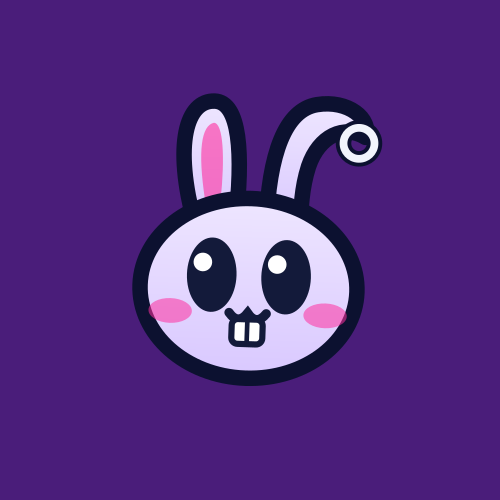
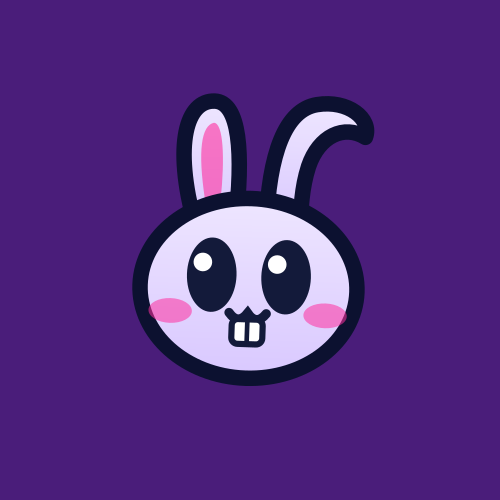
Slime drip border, solid gel ink, drop the hoop earrings

Changed region(s): [[0.66, 0.24, 0.78, 0.33]]

diff --git a/src/pages/Index.tsx b/src/pages/Index.tsx
@@ -216,9 +216,9 @@ function ShootingStar({ className, style }: StickerProps) {
 /*
  * A chaotic gel-pen border, sketchbook style: a lazy vine weaving down the
  * strip with fat spiral curls sprouting off it, hatched hearts and stars
- * tossed in at random tilts, dash bursts, squiggles, and dots. Pale glints
- * sit on the ink so it reads as purple sparkle gel. The tile meets itself
- * end to end, so the strips repeat seamlessly.
+ * tossed in at random tilts, dash bursts, squiggles, and dots, all in
+ * full-strength gel-pen purple. The tile meets itself end to end, so the
+ * strips repeat seamlessly.
  */
 function DoodleBorderTile() {
   return (
@@ -256,13 +256,6 @@ function DoodleBorderTile() {
       <circle cx="56" cy="60" r="1.5" fill="currentColor" stroke="none" />
       <circle cx="10" cy="160" r="1.5" fill="currentColor" stroke="none" />
       <circle cx="12" cy="244" r="1.5" fill="currentColor" stroke="none" />
-      {/* gel glitter */}
-      <g fill="#f3e8ff" stroke="none">
-        <path d="M20 50.8 L22.2 54 L20 57.2 L17.8 54 Z" />
-        <path d="M44 124.8 L46.2 128 L44 131.2 L41.8 128 Z" />
-        <path d="M47 166.8 L49.2 170 L47 173.2 L44.8 170 Z" />
-        <circle cx="24" cy="226" r="0.9" fill="#ffffff" />
-      </g>
     </g>
   );
 }
@@ -415,17 +408,6 @@ function DoodleCrewTile() {
       <g transform="rotate(14 32 509)">
         <path d="M32 504 L33.5 508 L37.5 508 L34.5 510.5 L35.5 514.5 L32 512 L28.5 514.5 L29.5 510.5 L26.5 508 L30.5 508 Z" strokeWidth="1.8" />
       </g>
-      {/* gel glitter glints */}
-      <g fill="#f3e8ff" stroke="none">
-        <path d="M12 22.8 L14.2 26 L12 29.2 L9.8 26 Z" />
-        <path d="M50 95 L52.2 98.2 L50 101.4 L47.8 98.2 Z" />
-        <path d="M32 250 L34.2 253.2 L32 256.4 L29.8 253.2 Z" />
-        <path d="M14 310 L16.2 313.2 L14 316.4 L11.8 313.2 Z" />
-        <path d="M32 418 L34.2 421.2 L32 424.4 L29.8 421.2 Z" />
-        <circle cx="32" cy="8" r="0.9" fill="#ffffff" />
-        <circle cx="50" cy="180" r="0.9" fill="#ffffff" />
-        <circle cx="32" cy="496" r="0.9" fill="#ffffff" />
-      </g>
     </g>
   );
 }
@@ -509,6 +491,33 @@ function ZebraStrip({ className, style }: { className?: string; style?: React.CS
       <path d={teeth.join(' ')} fill="#131a3a" />
       <rect width="1200" height="5" fill="#0c1130" />
       <rect y="55" width="1200" height="5" fill="#0c1130" />
+    </svg>
+  );
+}
+
+/*
+ * Neon slime pouring over a section's top edge: punk drip border in the
+ * brand mint, glossy clip-art style with the navy outline and a few
+ * detached drops mid-fall.
+ */
+function SlimeDrip({ className }: { className?: string }) {
+  const { id, stops } = useGloss('#14ff89');
+  return (
+    <svg viewBox="0 0 1440 120" preserveAspectRatio="none" className={className} aria-hidden="true">
+      <Gloss id={id} stops={stops} />
+      <path
+        d="M0 26 C30 26 40 60 60 60 C80 60 78 20 100 20 C130 20 130 44 150 44 C170 44 168 84 190 84 C212 84 205 22 230 22 C260 22 258 50 280 50 C302 50 300 18 330 18 C360 18 355 70 380 70 C405 70 400 24 430 24 C460 24 458 46 480 46 C502 46 500 90 525 90 C550 90 545 20 575 20 C605 20 600 55 625 55 C650 55 648 26 675 26 C705 26 700 74 725 74 C750 74 748 22 775 22 C805 22 800 48 825 48 C850 48 848 16 880 16 C910 16 905 62 930 62 C955 62 950 24 980 24 C1010 24 1008 52 1030 52 C1052 52 1050 88 1075 88 C1100 88 1095 20 1125 20 C1155 20 1150 44 1175 44 C1200 44 1198 70 1225 70 C1252 70 1245 18 1275 18 C1305 18 1300 50 1325 50 C1350 50 1348 28 1375 28 C1405 28 1402 58 1420 58 C1435 58 1438 30 1440 26 L1440 0 L0 0 Z"
+        fill={`url(#${id})`}
+        stroke="#0c1130"
+        strokeWidth="6"
+        strokeLinejoin="round"
+      />
+      <circle cx="192" cy="102" r="5" fill={`url(#${id})`} stroke="#0c1130" strokeWidth="5" />
+      <circle cx="527" cy="106" r="7" fill={`url(#${id})`} stroke="#0c1130" strokeWidth="5" />
+      <circle cx="1077" cy="104" r="6" fill={`url(#${id})`} stroke="#0c1130" strokeWidth="5" />
+      <ellipse cx="130" cy="9" rx="34" ry="4" fill="#ffffff" opacity="0.45" />
+      <ellipse cx="700" cy="9" rx="40" ry="4" fill="#ffffff" opacity="0.45" />
+      <ellipse cx="1240" cy="9" rx="30" ry="4" fill="#ffffff" opacity="0.45" />
     </svg>
   );
 }
@@ -721,7 +730,7 @@ const Index = () => {
           }}
         />
         {/* The border, doodled corner to corner like a bored study period */}
-        <div className="pointer-events-none absolute inset-0 text-[#8429e0] opacity-75" aria-hidden="true">
+        <div className="pointer-events-none absolute inset-0 text-[#8429e0]" aria-hidden="true">
           <DoodleCrewStrip className="absolute inset-y-0 left-0 h-full w-16" />
           <DoodleBorderStrip className="absolute inset-y-0 right-0 hidden h-full w-16 -scale-x-100 sm:block" />
           <DoodleBorderStrip horizontal className="absolute top-0 right-16 hidden h-16 w-[520px] md:block" />
@@ -748,7 +757,8 @@ const Index = () => {
         boxes, restyle it from the sidebar. The wallpaper is the punk
         retro-internet image from branding/.
       */}
-      <section className="ys-section-img relative overflow-hidden px-6 py-24">
+      <section className="ys-section-img relative overflow-hidden px-6 pb-24 pt-32">
+        <SlimeDrip className="absolute inset-x-0 top-0 h-24 w-full" />
         <div className="relative mx-auto max-w-5xl">
           <div className="mb-12 text-center">
             <h2 className="ys-outline mb-4 font-display text-4xl font-black italic text-white sm:text-6xl">

diff --git a/src/components/Characters.tsx b/src/components/Characters.tsx
@@ -80,8 +80,6 @@ export function Cat({ color = '#b14dff', className, style }: CharProps) {
       />
       <path d="M25 30 L21 14 L34 21 Z" fill="#ff2d9e" opacity="0.8" />
       <path d="M75 30 L79 14 L66 21 Z" fill="#ff2d9e" opacity="0.8" />
-      <circle cx="81" cy="33" r="5" fill="none" stroke="#0c1130" strokeWidth="5" />
-      <circle cx="81" cy="33" r="5" fill="none" stroke="#f2f4fc" strokeWidth="2.5" />
       <path d="M4 54 Q13 55 21 57 M6 64 Q14 63 21 62" fill="none" stroke="#131a3a" strokeWidth="2.5" strokeLinecap="round" />
       <path d="M96 54 Q87 55 79 57 M94 64 Q86 63 79 62" fill="none" stroke="#131a3a" strokeWidth="2.5" strokeLinecap="round" />
       <Face eyeY={50} blushY={63} blushDx={24} />
@@ -175,8 +173,6 @@ export function Bunny({ className, style }: CharProps) {
       <path d="M32 44 C24 18 28 4 37 4 C45 4 47 20 45 44 Z" fill={`url(#${id})`} stroke="#0c1130" strokeWidth="5" strokeLinejoin="round" />
       <path d="M35 36 C32 20 33 12 37 11 C40 11 41 22 40 36 Z" fill="#ff2d9e" opacity="0.6" />
       <path d="M55 44 C55 20 60 6 70 4 C80 2 88 8 86 14 C79 10 71 14 68 24 C66 31 66 38 66 44 Z" fill={`url(#${id})`} stroke="#0c1130" strokeWidth="5" strokeLinejoin="round" />
-      <circle cx="84" cy="16" r="5" fill="none" stroke="#0c1130" strokeWidth="5" />
-      <circle cx="84" cy="16" r="5" fill="none" stroke="#f2f4fc" strokeWidth="2.5" />
       <ellipse cx="50" cy="64" rx="35" ry="29" fill={`url(#${id})`} stroke="#0c1130" strokeWidth="5" />
       <Face eyeY={60} blushY={72} blushDx={25} />
       <path d="M44 72 Q47 76 50 72 Q53 76 56 72" fill="none" stroke="#131a3a" strokeWidth="3" strokeLinecap="round" />
